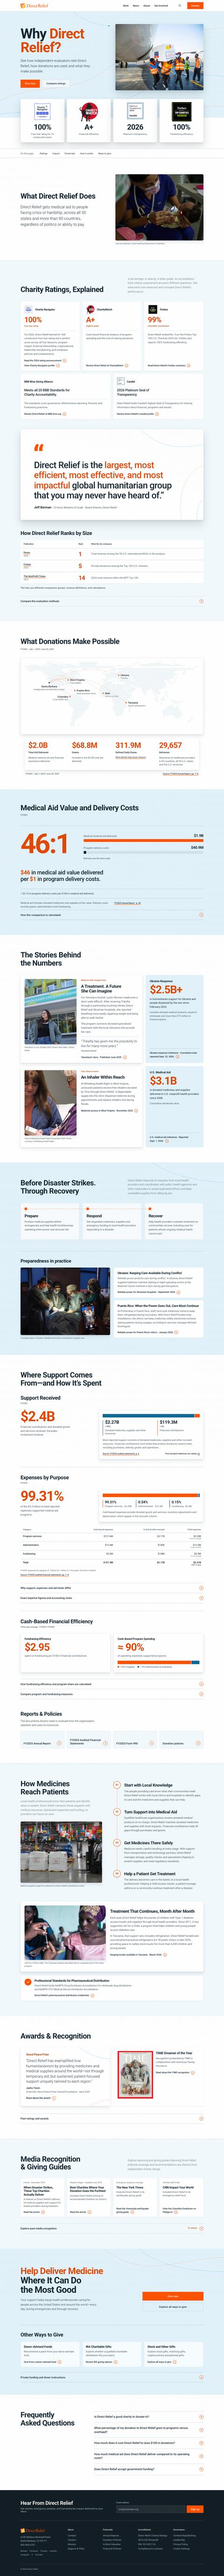
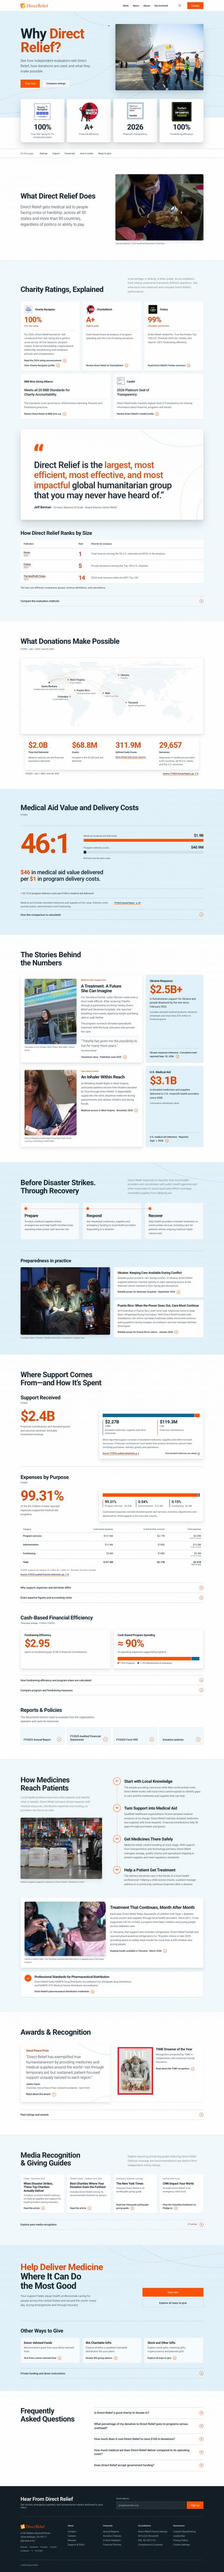
v8: remove duplicate rule above Cash-Based Financial Efficiency

diff --git a/v8/index.html b/v8/index.html
@@ -684,7 +684,7 @@ body.deep .hero .ctas .btn-ghost{background:transparent}
 .rstep p{margin-top:10px;color:var(--ink-2);font-size:1.05rem;line-height:1.6;max-width:52ch}
 @container site (max-width:900px){.rgrid{grid-template-columns:minmax(0,1fr);gap:48px}.rside{position:static}}
 .model .scard.wide{margin-top:72px}
-#dr-evidence{border-top:0;padding-top:24px}
+#dr-efficiency,#dr-evidence{border-top:0;padding-top:24px}
 .model .scard.wide .tile-ph img{aspect-ratio:3/2}
 .model .scard.wide{grid-template-areas:"img txt" "cap .";row-gap:12px}
 .model .scard.wide .tile-ph{display:contents}
